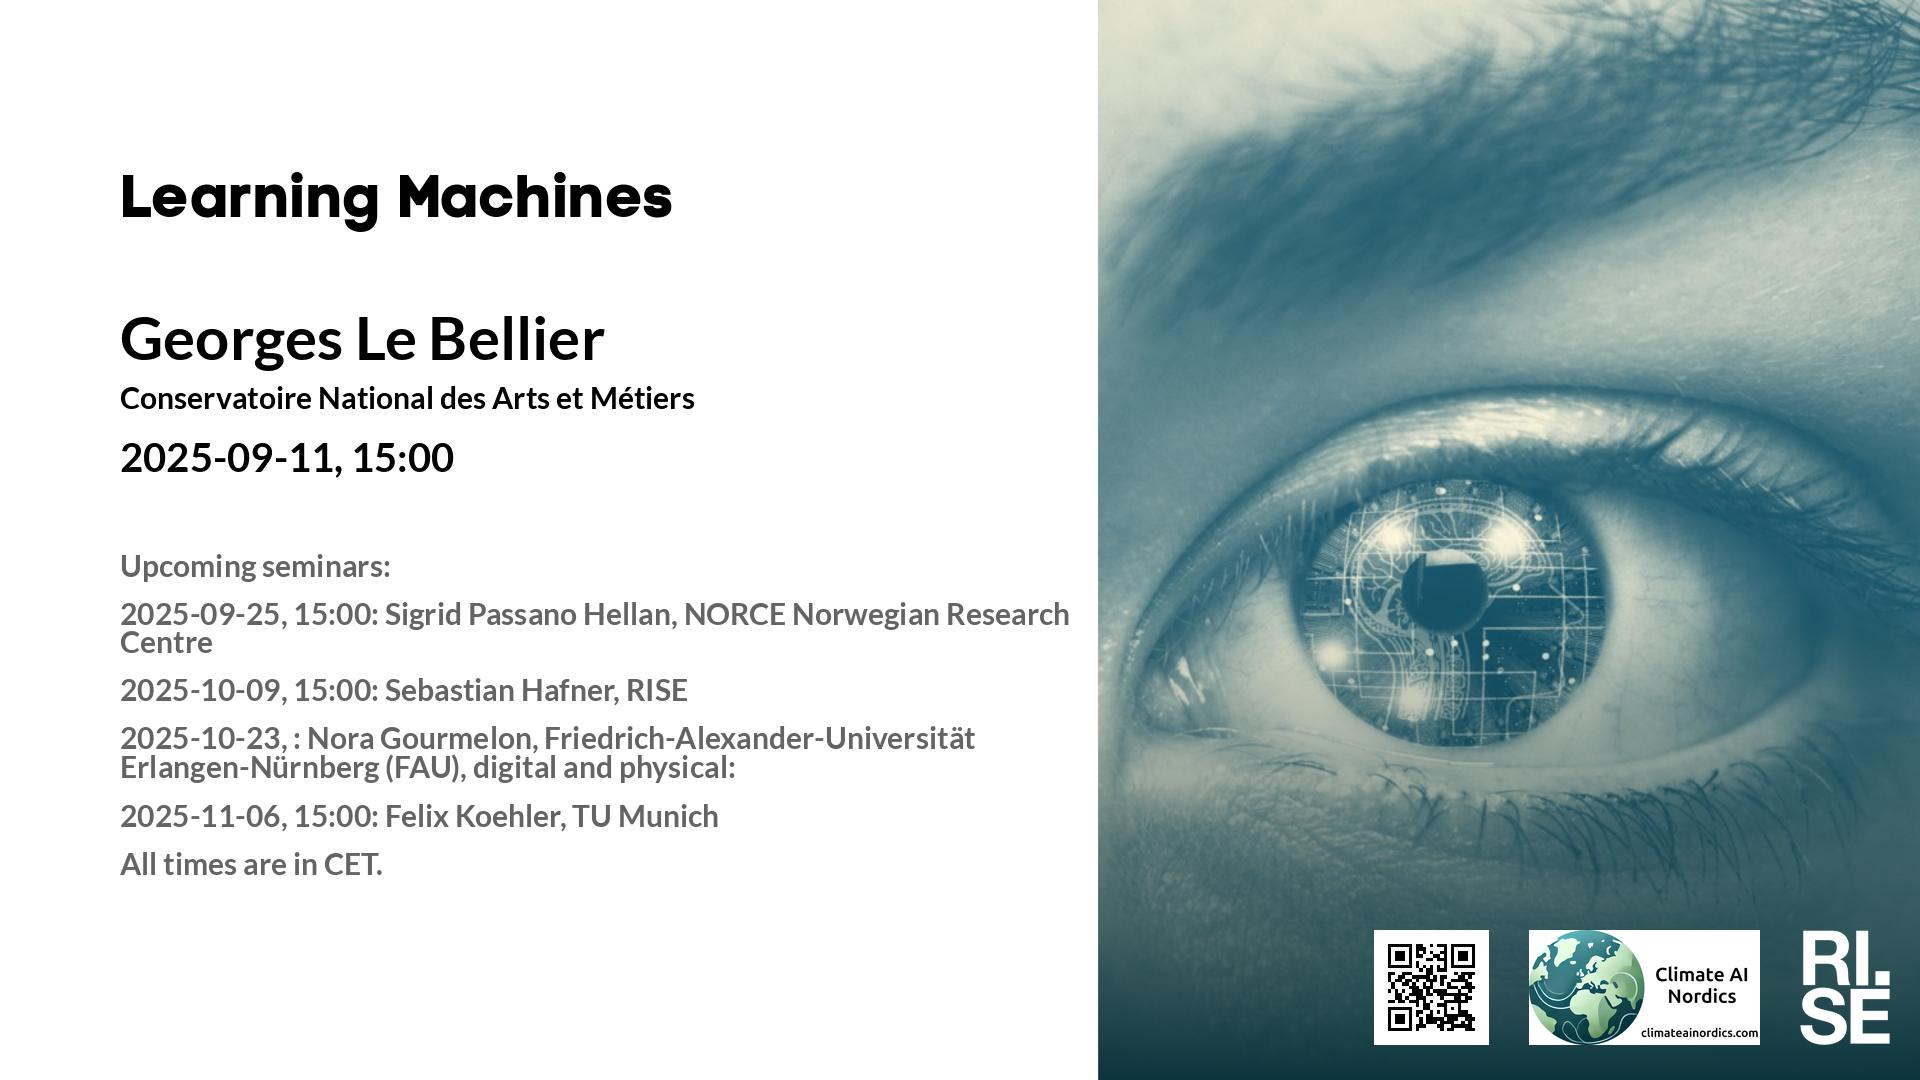
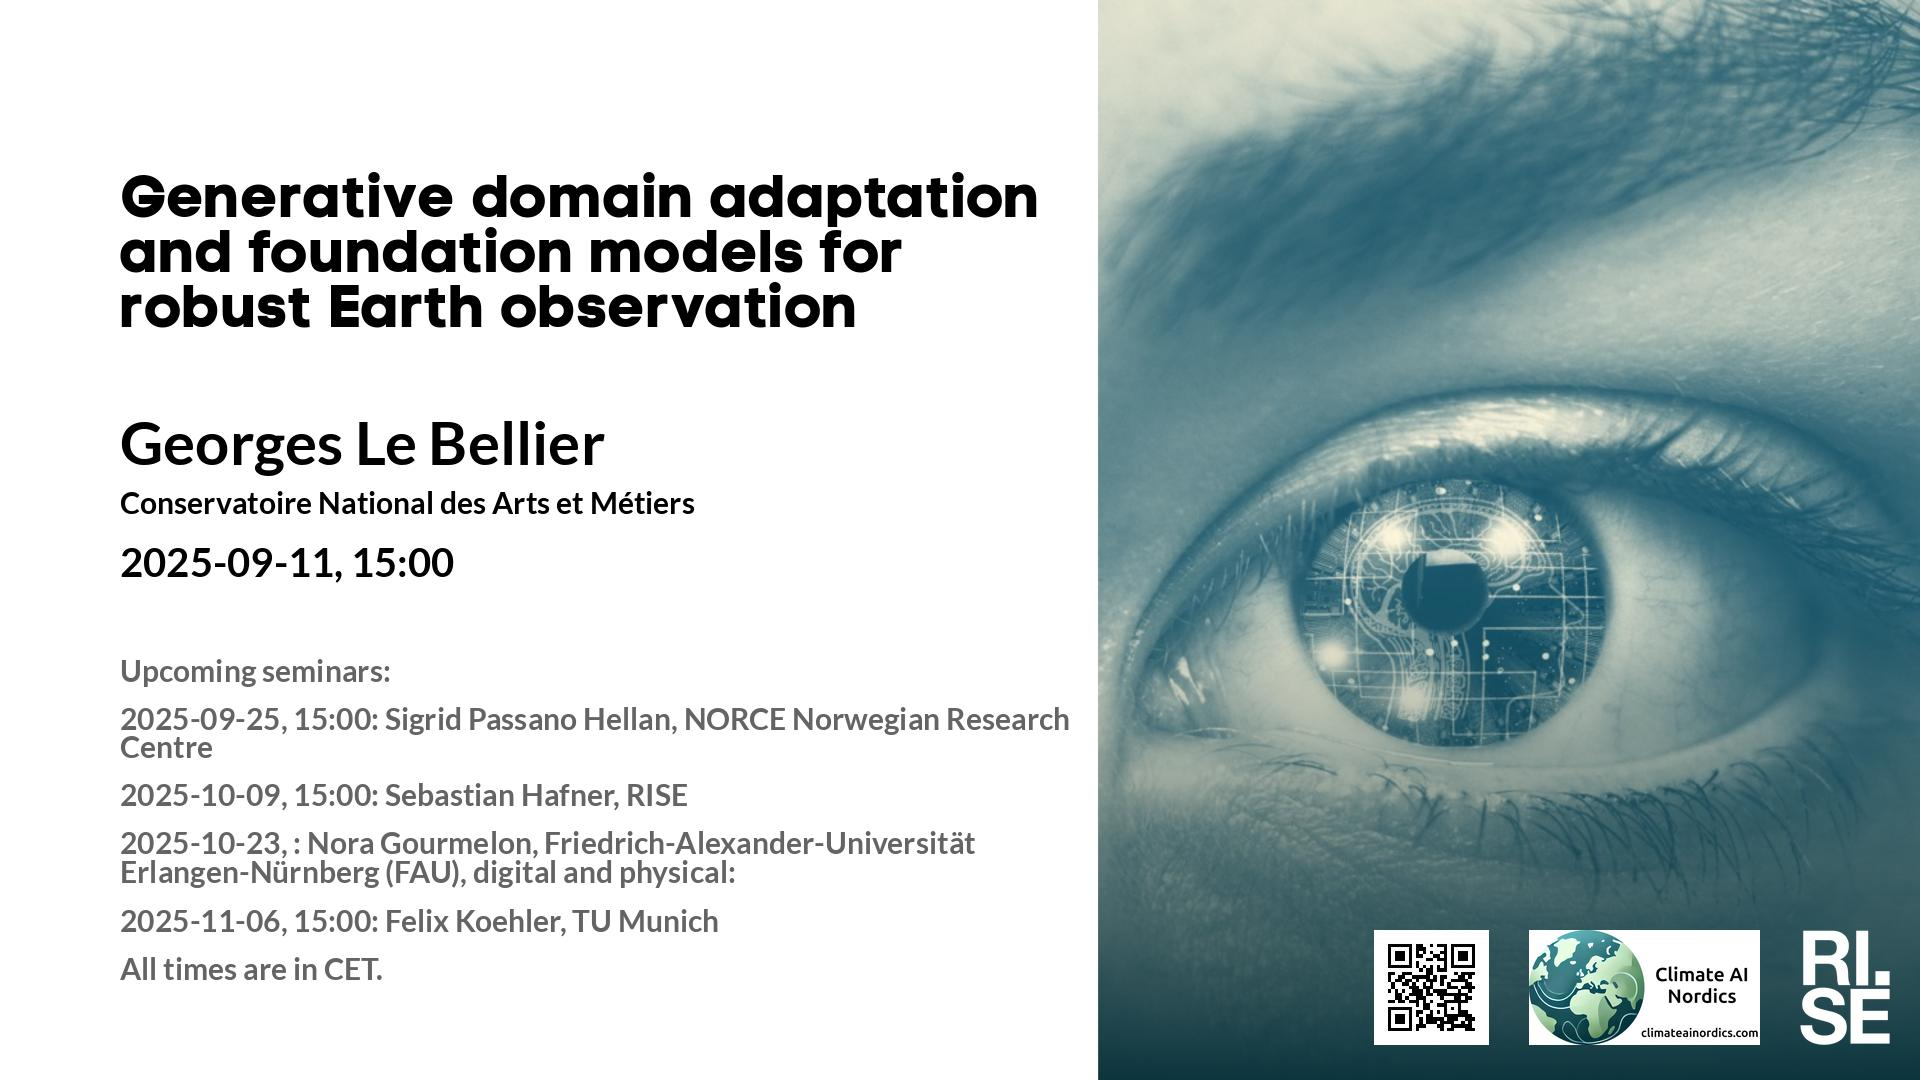
Updated plan on web site.

Changed region(s): [[0.0625, 0.1528, 0.5625, 0.9167]]

diff --git a/lm/2025.md b/lm/2025.md
@@ -33,7 +33,7 @@ table {border-collapse: collapse;}
 | <span style="color:red"> 2025-06-12 </span> | <span style="color:red"> *Up for grabs!!!* </span> | <span style="color:red">  </span> | <span style="color:red">  </span> | <span style="color:red">  </span> | <span style="color:red">  </span> | <span style="color:red"> CANCELLED </span> |
 |  2025-06-19  |  [Lily Xu, Columbia University](2025-06-19.md)  |  [photo](2025-06-19-photo-lily-xu.jpg)  |  [social media ](2025-06-19-social-media-lily-xu.jpg)  |  [meeting backdrop ](2025-06-19-meeting-backdrop-lily-xu.jpg)  |  [youtube thumbnail ](2025-06-19-youtube-thumbnail-lily-xu.jpg)  |  STABP  |
 |  2025-08-28  |  [Markus Pettersson, Chalmers University of Technology](2025-08-28.md)  |  [photo](2025-08-28-photo-markus-pettersson.jpg)  |  [social media ](2025-08-28-social-media-markus-pettersson.jpg)  |  [meeting backdrop ](2025-08-28-meeting-backdrop-markus-pettersson.jpg)  |  [youtube thumbnail ](2025-08-28-youtube-thumbnail-markus-pettersson.jpg)  |  STABP  |
-|  2025-09-11  |  [Georges Le Bellier, Conservatoire National des Arts et Métiers](2025-09-11.md)  |  [photo](2025-09-11-photo-georges-le-bellier.jpg)  |  [social media ](2025-09-11-social-media-georges-le-bellier.jpg)  |  [meeting backdrop ](2025-09-11-meeting-backdrop-georges-le-bellier.jpg)  |  [youtube thumbnail ](2025-09-11-youtube-thumbnail-georges-le-bellier.jpg)  |  S~~T~~ABP  |
+|  2025-09-11  |  [Georges Le Bellier, Conservatoire National des Arts et Métiers](2025-09-11.md)  |  [photo](2025-09-11-photo-georges-le-bellier.jpg)  |  [social media ](2025-09-11-social-media-georges-le-bellier.jpg)  |  [meeting backdrop ](2025-09-11-meeting-backdrop-georges-le-bellier.jpg)  |  [youtube thumbnail ](2025-09-11-youtube-thumbnail-georges-le-bellier.jpg)  |  STABP  |
 |  2025-09-25  |  [Sigrid Passano Hellan, NORCE Norwegian Research Centre](2025-09-25.md)  |  [photo](2025-09-25-photo-sigrid-passano-hellan.jpg)  |  [social media ](2025-09-25-social-media-sigrid-passano-hellan.jpg)  |  [meeting backdrop ](2025-09-25-meeting-backdrop-sigrid-passano-hellan.jpg)  |  [youtube thumbnail ](2025-09-25-youtube-thumbnail-sigrid-passano-hellan.jpg)  |  S~~TA~~BP  |
 |  2025-10-09  |  [Sebastian Hafner, RISE Research Institutes of Sweden](2025-10-09.md)  |  [photo](2025-10-09-photo-sebastian-hafner.jpg)  |  [social media ](2025-10-09-social-media-sebastian-hafner.jpg)  |  [meeting backdrop ](2025-10-09-meeting-backdrop-sebastian-hafner.jpg)  |  [youtube thumbnail ](2025-10-09-youtube-thumbnail-sebastian-hafner.jpg)  |  S~~TAB~~P  |
 |  2025-11-06  |  [Felix Koehler, TU Munich](2025-11-06.md)  |  [photo](2025-11-06-photo-felix-koehler.jpg)  |  [social media ](2025-11-06-social-media-felix-koehler.jpg)  |  [meeting backdrop ](2025-11-06-meeting-backdrop-felix-koehler.jpg)  |  [youtube thumbnail ](2025-11-06-youtube-thumbnail-felix-koehler.jpg)  |  S~~TAB~~P  |

diff --git a/lm/index.md b/lm/index.md
@@ -33,7 +33,7 @@ table {border-collapse: collapse;}
 | <span style="color:red"> 2025-06-12 </span> | <span style="color:red"> *Up for grabs!!!* </span> | <span style="color:red">  </span> | <span style="color:red">  </span> | <span style="color:red">  </span> | <span style="color:red">  </span> | <span style="color:red"> CANCELLED </span> |
 |  2025-06-19  |  [Lily Xu, Columbia University](2025-06-19.md)  |  [photo](2025-06-19-photo-lily-xu.jpg)  |  [social media ](2025-06-19-social-media-lily-xu.jpg)  |  [meeting backdrop ](2025-06-19-meeting-backdrop-lily-xu.jpg)  |  [youtube thumbnail ](2025-06-19-youtube-thumbnail-lily-xu.jpg)  |  STABP  |
 |  2025-08-28  |  [Markus Pettersson, Chalmers University of Technology](2025-08-28.md)  |  [photo](2025-08-28-photo-markus-pettersson.jpg)  |  [social media ](2025-08-28-social-media-markus-pettersson.jpg)  |  [meeting backdrop ](2025-08-28-meeting-backdrop-markus-pettersson.jpg)  |  [youtube thumbnail ](2025-08-28-youtube-thumbnail-markus-pettersson.jpg)  |  STABP  |
-|  2025-09-11  |  [Georges Le Bellier, Conservatoire National des Arts et Métiers](2025-09-11.md)  |  [photo](2025-09-11-photo-georges-le-bellier.jpg)  |  [social media ](2025-09-11-social-media-georges-le-bellier.jpg)  |  [meeting backdrop ](2025-09-11-meeting-backdrop-georges-le-bellier.jpg)  |  [youtube thumbnail ](2025-09-11-youtube-thumbnail-georges-le-bellier.jpg)  |  S~~T~~ABP  |
+|  2025-09-11  |  [Georges Le Bellier, Conservatoire National des Arts et Métiers](2025-09-11.md)  |  [photo](2025-09-11-photo-georges-le-bellier.jpg)  |  [social media ](2025-09-11-social-media-georges-le-bellier.jpg)  |  [meeting backdrop ](2025-09-11-meeting-backdrop-georges-le-bellier.jpg)  |  [youtube thumbnail ](2025-09-11-youtube-thumbnail-georges-le-bellier.jpg)  |  STABP  |
 |  2025-09-25  |  [Sigrid Passano Hellan, NORCE Norwegian Research Centre](2025-09-25.md)  |  [photo](2025-09-25-photo-sigrid-passano-hellan.jpg)  |  [social media ](2025-09-25-social-media-sigrid-passano-hellan.jpg)  |  [meeting backdrop ](2025-09-25-meeting-backdrop-sigrid-passano-hellan.jpg)  |  [youtube thumbnail ](2025-09-25-youtube-thumbnail-sigrid-passano-hellan.jpg)  |  S~~TA~~BP  |
 |  2025-10-09  |  [Sebastian Hafner, RISE Research Institutes of Sweden](2025-10-09.md)  |  [photo](2025-10-09-photo-sebastian-hafner.jpg)  |  [social media ](2025-10-09-social-media-sebastian-hafner.jpg)  |  [meeting backdrop ](2025-10-09-meeting-backdrop-sebastian-hafner.jpg)  |  [youtube thumbnail ](2025-10-09-youtube-thumbnail-sebastian-hafner.jpg)  |  S~~TAB~~P  |
 |  2025-11-06  |  [Felix Koehler, TU Munich](2025-11-06.md)  |  [photo](2025-11-06-photo-felix-koehler.jpg)  |  [social media ](2025-11-06-social-media-felix-koehler.jpg)  |  [meeting backdrop ](2025-11-06-meeting-backdrop-felix-koehler.jpg)  |  [youtube thumbnail ](2025-11-06-youtube-thumbnail-felix-koehler.jpg)  |  S~~TAB~~P  |

diff --git a/lm/2025-09-11.md b/lm/2025-09-11.md
@@ -7,7 +7,7 @@ Welcome to this week's Learning Machines seminar.
 
 This seminar is a collaboration between RISE and Climate AI Nordics -- [climateainordics.com](https://climateainordics.com/).
 
-**Title:** 
+**Title:** Generative domain adaptation and foundation models for robust Earth observation
 
 **Speaker:** Georges Le Bellier, Conservatoire National des Arts et Métiers
 
